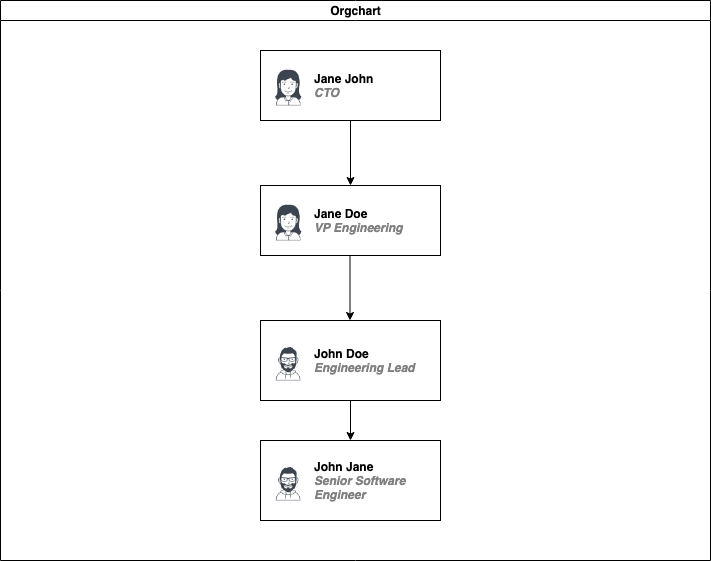
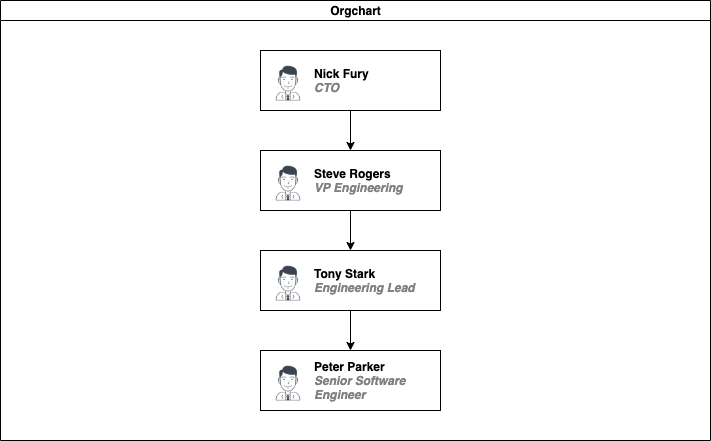
Using more easy to understand names

diff --git a/_posts/2020-12-27-things-you-should-consider-before-joining-your-next-company.md b/_posts/2020-12-27-things-you-should-consider-before-joining-your-next-company.md
@@ -48,9 +48,9 @@ I would go for a company where the later is being followed.
 There could be different ways in which an organisation can show trust in it's employees:
 * *Less Micromanagement*: Micromanagement is something that exists in best of the places. Micromanagement is a result of `Hierarical Expectations`.
 
-> John Doe has commited a feature release to his manager Jane Doe without consulting his sub ordinate John Jane.
-> The commited deadline looks unrealistic but John Doe still tries to push the team to release within the promised deadline.
-> Now Jane Doe is expecting John Doe to meet the deadline because she has commited the deadline to her manager Jane John
+> Tony Stark has commited a feature release to his manager Steve Rogers without consulting his sub ordinate Peter Parker.
+> The commited deadline looks unrealistic but Tony Stark still tries to push the team to release within the promised deadline.
+> Now Steve Rogers is expecting Tony Stark to meet the deadline because he has commited the deadline to his manager Nick Fury
 
 ![Organisation Hierarchy](/images/blogs/things_to_consider/hierarchy.png "Organisation Heirarchy")
 
@@ -63,10 +63,10 @@ In the start of one's career, this might not be a very important point to consid
 When I say work-life balance, I don't mean that there should a fixed timing where you need to work.
 What I mean here is that the `Individual Leadership` should understand what employee needs.
 
-> John Doe was not feeling productive at work. He decided to leave early today so that he can have some rest and energize himself for the next day.
-> When he was leaving, his manager, Jane Doe saw him leaving early. She quickly went to him and asked what is the issue?
-> John Doe replied, "I'm not feeling very productive so I'm taking the day off". After hearing this, Jane Doe didn't understand this
-> and asked John Doe to complete the work that was due today before leaving.
+> Steve Rogers was not feeling productive at work. He decided to leave early today so that he can have some rest and energize himself for the next day.
+> When he was leaving, his manager, Nick Fury saw him leaving early. He quickly went to him and asked what is the issue?
+> Steve Rogers replied, "I'm not feeling very productive so I'm taking the day off". After hearing this, Nick Fury didn't understand this
+> and asked Steve Rogers to complete the work that was due today before leaving.
 
 It's important to note, how much a company respects employee's personal life. How many times does your `Individual Leaderhsip` wants you to work on weekends so that you could complete a task?
 I consider all these, red flags.
@@ -94,8 +94,8 @@ This will help you get some idea around what your future could look like at this
 As an individual, your main goal at working in an organsiation (be it be small or big organisation) is **growth** on personal and professional level.
 For freshers, just coming out of college, an organisational environment could be very overwhelming. Choosing a wrong organisation could have a negative effect on their professional life.
 
-> John Doe got out of college. He had offers from different companies. He chose a company with the biggest brand name and compensation.
-> Now, John Doe started working there. A lot of huge systems, a lot of tools he never heard. He doesn't like the work he does here. It's just writing APIs.
+> Peter Parker got out of college. He had offers from different companies. He chose a company with the biggest brand name and compensation.
+> Now, Peter Parker started working there. A lot of huge systems, a lot of tools he never heard. He doesn't like the work he does here. It's just writing APIs.
 > He wants to work on some systems, he wants to learn how the infrastructure works in a huge organisation. Due to lack of experience, he thinks if such a big organisations is like this, then all the companies must be like this.
 
 There might be some people who think this is not how it works. But this is actually a real story that I got to know when I talked to one of my friends.
